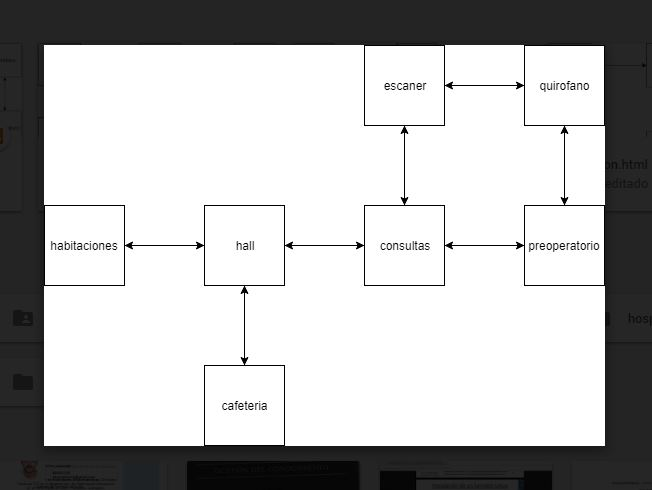
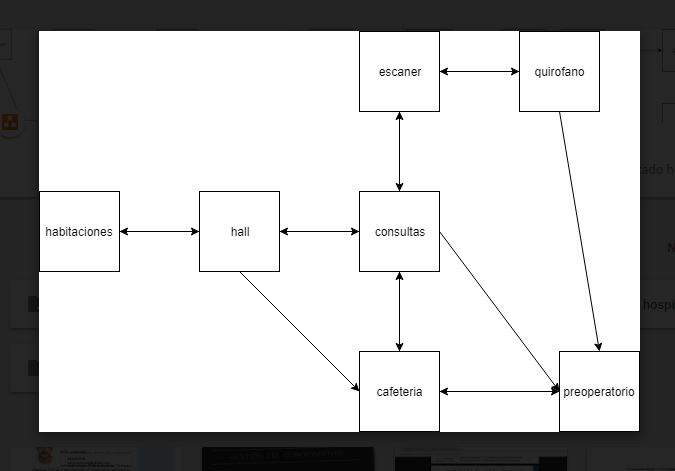
commit 04, agregada una nueva direccion geografica southEast y modificadas las clases Room y Game

diff --git a/Game.java b/Game.java
@@ -46,13 +46,13 @@ public class Game
         quirofano = new Room("in the operating theater");
 
         // initialise room exits
-        hall.setExits(null, consulta, cafeteria, habitaciones);
-        habitaciones.setExits(null, hall, null, null);
-        cafeteria.setExits(hall, null, null, null);
-        consulta.setExits(escaner, preoperatorio, null, hall);
-        escaner.setExits(null, quirofano, consulta, null);
-        preoperatorio.setExits(quirofano, null, null, consulta);
-        quirofano.setExits(null, null, preoperatorio, escaner);
+        hall.setExits(null, consulta, null, habitaciones, cafeteria);
+        habitaciones.setExits(null, hall, null, null, null);
+        cafeteria.setExits(consulta, preoperatorio, null, null, null);
+        consulta.setExits(escaner, null, cafeteria, hall, preoperatorio);
+        escaner.setExits(null, quirofano, consulta, null, null);
+        preoperatorio.setExits(null, null, null, cafeteria, null);
+        quirofano.setExits(null, null, null, escaner, preoperatorio);
 
         currentRoom = hall;  // start game in the hall
     }
@@ -160,6 +160,9 @@ public class Game
         if(direction.equals("west")) {
             nextRoom = currentRoom.westExit;
         }
+        if(direction.equals("southEast")) {
+            nextRoom = currentRoom.southEastExit;
+        }
 
         if (nextRoom == null) {
             System.out.println("There is no door!");
@@ -204,6 +207,9 @@ public class Game
         }
         if(currentRoom.westExit != null) {
             System.out.print("west ");
+        }
+        if(currentRoom.southEastExit != null) {
+            System.out.println("southEast ");
         }
         System.out.println();
     }

diff --git a/Room.java b/Room.java
@@ -19,6 +19,7 @@ public class Room
     public Room southExit;
     public Room eastExit;
     public Room westExit;
+    public Room southEastExit;
 
     /**
      * Create a room described "description". Initially, it has
@@ -39,7 +40,7 @@ public class Room
      * @param south The south exit.
      * @param west The west exit.
      */
-    public void setExits(Room north, Room east, Room south, Room west) 
+    public void setExits(Room north, Room east, Room south, Room west, Room southEast) 
     {
         if(north != null)
             northExit = north;
@@ -49,6 +50,8 @@ public class Room
             southExit = south;
         if(west != null)
             westExit = west;
+        if(southEast != null)
+            southEastExit = southEast;
     }
 
     /**
